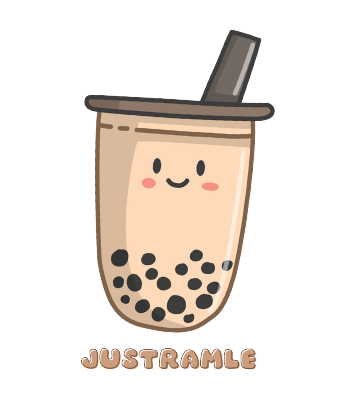
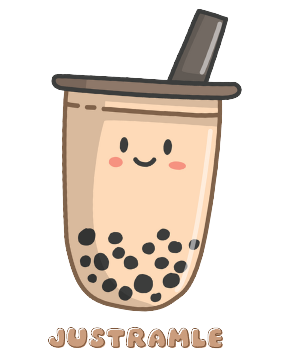
change background attachment

Changed region(s): [[0.1672, 0.0, 0.8641, 0.986], [0.5575, 0.3697, 0.6411, 0.493]]

diff --git a/css/stylesheet.css b/css/stylesheet.css
@@ -1,20 +1,23 @@
 /* Global Resets */
-* {
+/* * {
     margin: 0;
     padding: 0;
     box-sizing: border-box;
-  }
+  } */
   
   body {
     background-image: url("../images/bg.png");
+    background-attachment: fixed;
     font-family: 'Montserrat', sans-serif;
-    line-height: 1.6;
     padding: 20px;
     text-align: center;
-    font-size: .92rem;
+    font-size: 1rem;
     font-weight: 300;
     color: #d8a3be;
     position:relative;
+    line-height: 2;
+    display: flex;
+    flex-direction: column;
   }
   
   /* Top Container */
@@ -23,10 +26,10 @@
     padding-bottom: 20px;
   }
   
-  .top-container h1 {
+ /* h1 {
     font-family: 'Sacramento', cursive;
     font-size: 5rem;
-  }
+  } */
   
   .top-container .header-image {
     max-width: 100%; 
@@ -37,24 +40,25 @@
   
   /* Middle Container */
   .middle-container {
-    margin: 50px 0;
+    margin: 30px 0;
   }
     
   .intro{
-    width: 70%;
+    width: 60%;
     margin: auto;
   }
 
   h2 {
     font-family: 'Sacramento', cursive;
-    color: #a47c55;
+    color: #d8a3be;
     font-size: 3rem;
-    margin-bottom: 10px;
+    margin: 10px 0;
   }
 
   h3{
     font-family: 'Montserrat', sans-serif;
     color: #fb9bcb;
+    margin: 0px;
   }
 
   a{
@@ -68,33 +72,22 @@
     color: #e9c243;
   }
   
-  .intro, .code-description, .boba-description, .contact-message {
-    font-size: 1rem;
-    margin-bottom: 10px;
-  }
-  
   /* Skill Rows */
   .skill-row {
-    width: 70%;
-    margin: 40px auto;
+    width: 50%;
+    margin: auto;
     text-align: left;
-    line-height: 2;
     position: relative;
+    padding-bottom: 30px;
   }
   
 .skill-row .code-skill {
-    width: 200px; 
-    height: 200px;
-    border-radius: 50%;
-    float: left;  
-}
-
-.skill-row .code-description{
-    padding-left: 250px;
+    max-width: 30%;
+    float: left;
 }
 
 .skill-row .boba {
-    max-width: 30%;
+    max-width: 24%;
     height: auto;
     border-radius: 10px;
     float:right;  
@@ -103,7 +96,7 @@
   /* Contact Section */
   .contact-me {
     text-align: center;
-    padding: 20px 0 0 0;
+    padding: 50px 0 0 0;
     line-height: 2;
   }
   
@@ -155,7 +148,9 @@
   .bottom-container {
     color: #d861f0;
     text-align: center;
-    /* padding: 20px 0; */
+    padding-top: 50px;
+    padding-bottom: 0px;
+    line-height: 0.3rem;
   }
   
   .footer-link {
@@ -172,7 +167,7 @@
   hr {
     border: dotted #eae0d5 6px;
     border-bottom: none;
-    width: 40%;
+    width: 20%;
     margin: 10px auto; 
   }
 
@@ -180,13 +175,13 @@
     border: solid #f1d5e3 5px;
     border-bottom: none;
     width: 100%;
-    /* margin: 10px auto; */
   }
   
   /* Responsive Design */
   @media (max-width: 768px) {
-    .skill-row {
+    .middle-container {
       flex-direction: column;
+      display: flex;
     }
   
     h1 {
@@ -200,10 +195,10 @@
   /*animation  */
 .intro-ani {
     opacity: 0;
-    transition: opacity 1.5s ease-in-out;
+    transition: opacity 2s ease-in-out;
   }
 .intro-ani.visible {
-    opacity: 1;
+    opacity: 3;
   }
 .code-ani {
     opacity: 0;
@@ -211,7 +206,7 @@
   }
   
   .code-ani.visible {
-    opacity: 2;
+    opacity: 3;
   }
 
   .boba-ani {
@@ -227,7 +222,7 @@
     transition: opacity 2s ease-in-out;
   }
   .contact-ani.visible {
-    opacity: 4;
+    opacity: 3;
   }
   
   

diff --git a/index.html b/index.html
@@ -17,13 +17,14 @@
 <body>
 
 <div class="top-container">
- <!-- <h1>I am Tram Le</h1> -->
+
   <img class="header-image" src="images/justramle.gif" alt="bgboba-img">
 </div>
 
-<hr>
-
+<!-- <h1>Tram Le</h1> -->
 <div class="middle-container">
+  
+  <hr>
   <div class="profile">
     <h2>Introduction</h2>
     <div class="intro-ani"> 
@@ -34,11 +35,11 @@
   
   <div class="skills">
   <h2>Story</h2>
-
     <div class="code-ani"> 
       <div class="skill-row">
-        <img class="code-skill" src="images/girlblue.png" alt="code">
+        <img class="code-skill" src="images/pro1.png" alt="code">
         <p class="code-description"> 
+          <h3>Background</h3>
           My journey into the world of coding began when I was young. I had the opportunity to explore various beautiful websites online, 
           and I was so desire to create my own blog website—a platform where I could freely express my ideas and creativity. During my college, I began to explore coding skills, 
           experience various programming languages and frameworks, each offering a unique knowledges, it's also enabled me to expand my horizons in design, allowing me to diverse multiple projects with confidence. 
@@ -50,18 +51,20 @@
     <div class="boba-ani">
       <div class="skill-row">
         <img class="boba" src="images/bubble-tea.png" alt="bubble-tea">
-        <h3>Boba Challenge</h3>
-        <p class="boba-description">Having grow up in Asia, one of the best snacks I can't never live without is bubble tea aka Boba. I am such a boba enthusiast that I can happily enjoy drinking 3 cups in a row!
+        <p class="boba-description">
+          <h3>Boba Challenge</h3>
+          Having grow up in Asia, one of the best snacks I can't never live without is bubble tea aka Boba. I am such a boba enthusiast that I can happily enjoy drinking 3 cups in a row!
           For me, life is all about savoring the sweet, and when it comes to Boba, it never fails to bring a smile to my face. Two of my absolute favorite flavor is Taro and Brown Sugar, you can't never go wrong with those at any places. 
           In my opinion, boba is more than just a drink; it's a passion, a little piece of happiness in a plastic cup, and it is my daily dose of joy. 
           🥤💜🌟</p>
       </div>
     </div>
   </div>
-  <hr>
+  
   
   
   <div class="contact-me">
+    <hr>
     <h2>Get In Touch</h2>
     <div class="contact-ani">
       <img src="images/bottom.png" alt="bgboba-img" width="600" height="250">
@@ -78,7 +81,7 @@
   <p class="copyright">©Tram Le</p>
 </div>
 
-<script src="ani.js"></script>
+<script src="javacript/ani.js"></script>
 
 </body>
 </html>
